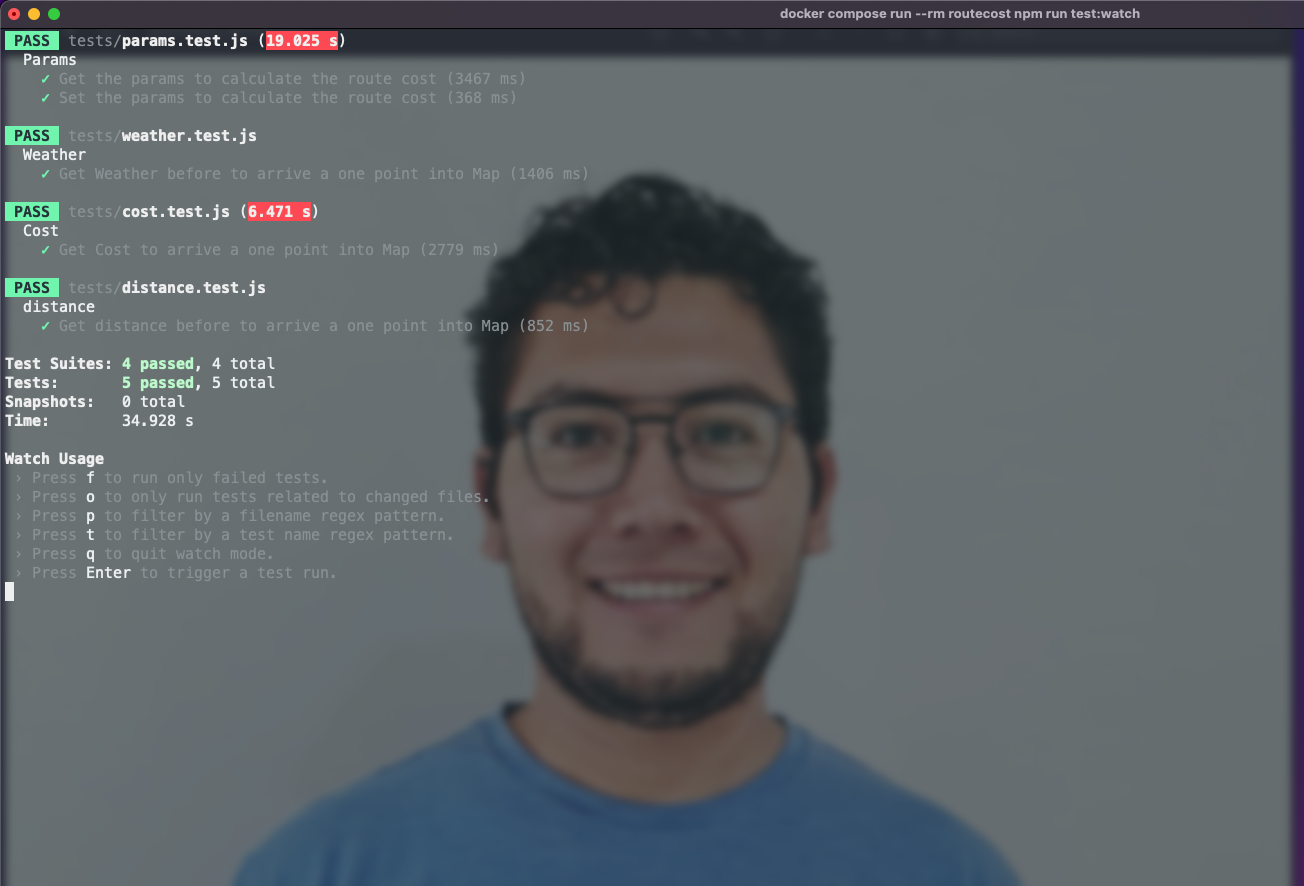
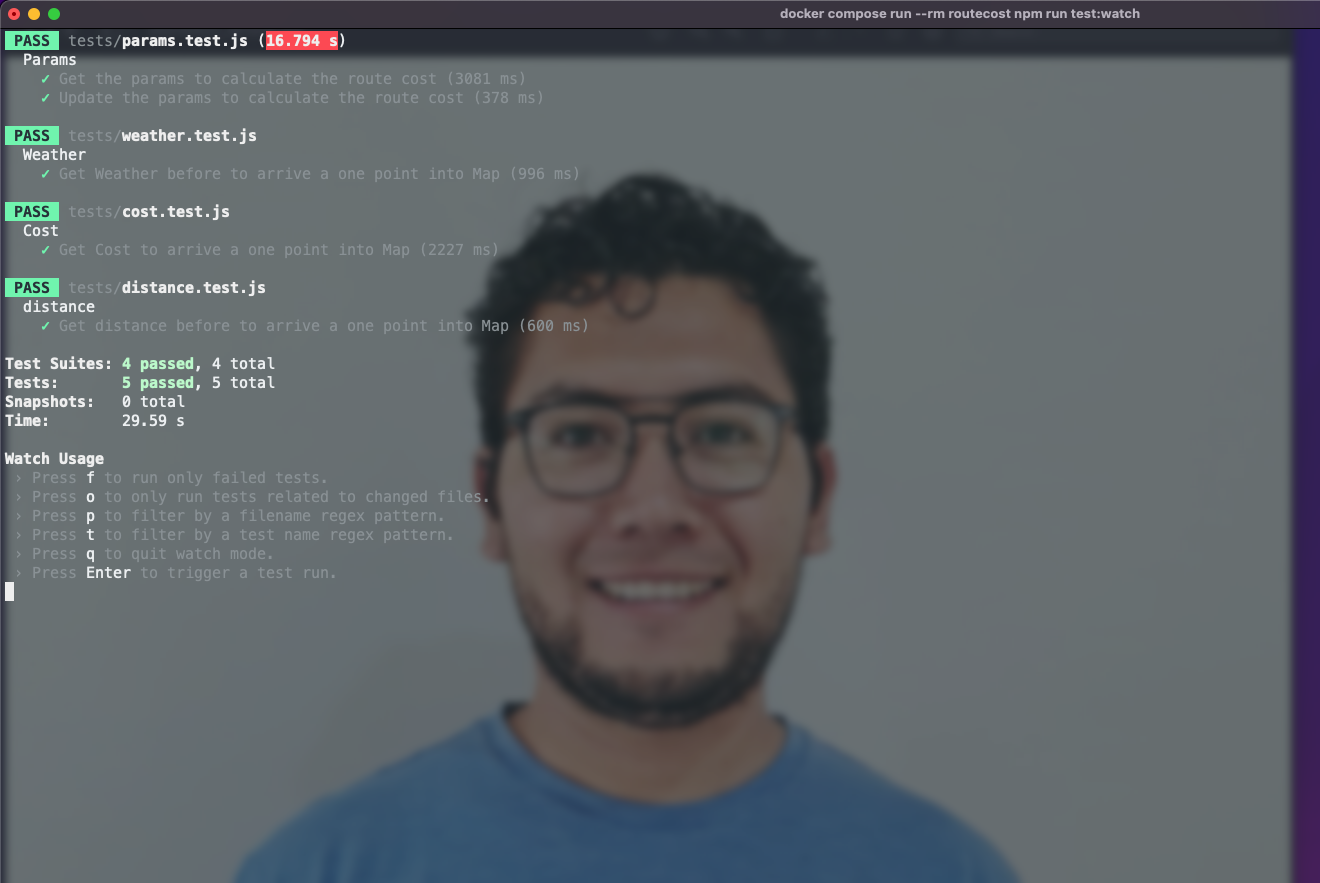
fix if there are not params

diff --git a/app/controllers/costController.js b/app/controllers/costController.js
@@ -31,8 +31,9 @@ async function getCost(req, res) {
 	if (params) {
 		const cost = await calculateCost(params, elements, originWeather, destinationWeather);
 		await buildResponse(res, cost, origin, destination, elements);
+	} else {
+		sendError(res, 'There are not Params');
 	}
-	sendError(res, 'There are not Params');
 }
 async function getWeatherByCoordinates(url) {
 	info(' URL : ', url);
